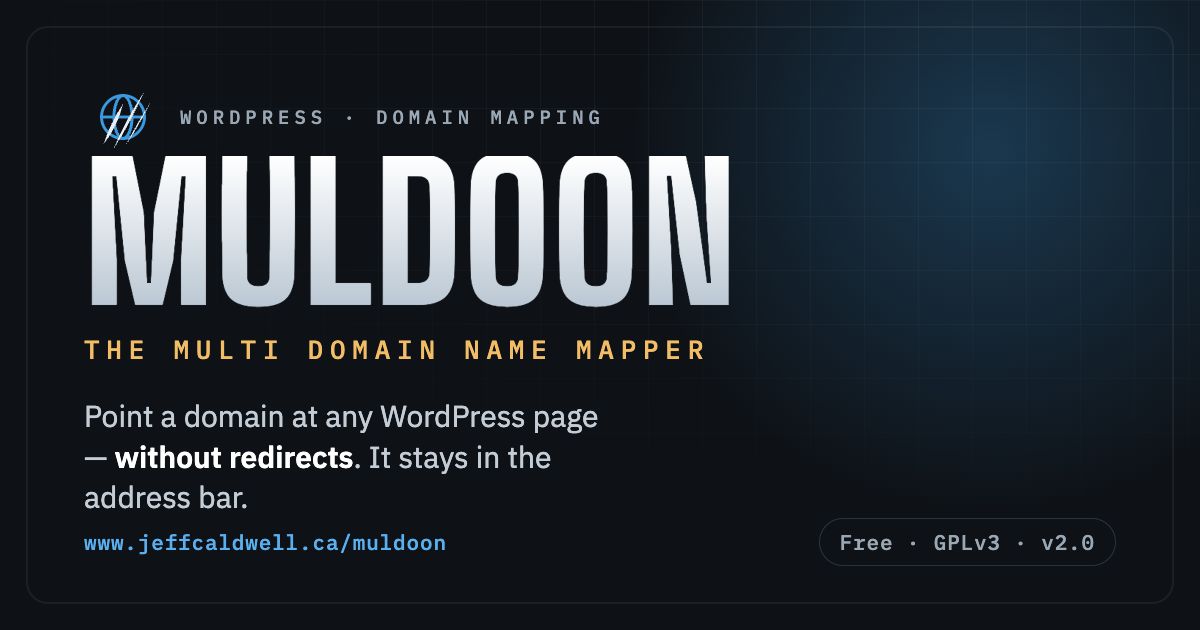
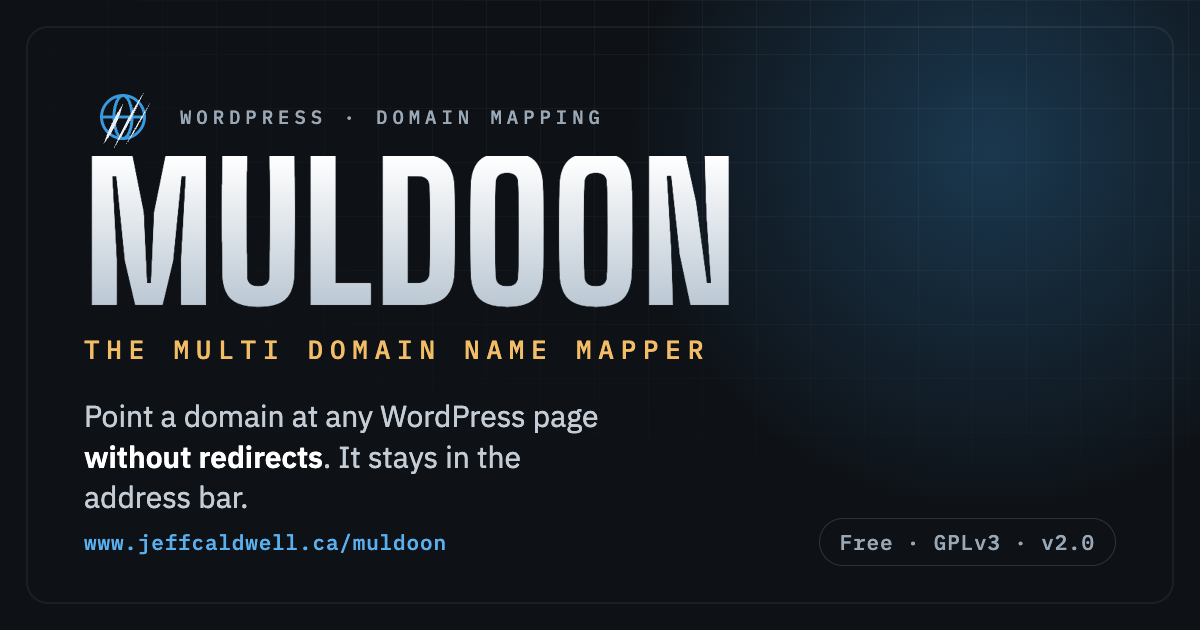
Remove em dashes from site copy; refresh OG image and admin screenshot

Changed region(s): [[0.0617, 0.6937, 0.4625, 0.754]]

diff --git a/index.html b/index.html
@@ -5,8 +5,8 @@
   <meta name="viewport" content="width=device-width, initial-scale=1.0">
 
   <!-- Primary SEO -->
-  <title>Muldoon — WordPress Domain Mapping Plugin, No Redirects</title>
-  <meta name="description" content="Muldoon is a WordPress plugin that maps extra domains and subdomains to any page, post, or archive — without redirects. The mapped domain always stays in the visitor's address bar.">
+  <title>Muldoon: WordPress Domain Mapping Plugin, No Redirects</title>
+  <meta name="description" content="Muldoon is a WordPress plugin that maps extra domains and subdomains to any page, post, or archive without redirects. The mapped domain always stays in the visitor's address bar.">
   <meta name="keywords" content="WordPress domain mapping, map domain to WordPress page, domain alias WordPress, WordPress subdomain mapping, no redirect domain mapping, parked domain WordPress, WordPress multiple domains plugin">
   <meta name="author" content="Jeff Caldwell">
   <meta name="robots" content="index, follow, max-image-preview:large">
@@ -16,20 +16,20 @@
   <!-- Open Graph -->
   <meta property="og:type" content="website">
   <meta property="og:site_name" content="Muldoon">
-  <meta property="og:title" content="Muldoon — WordPress Domain Mapping Plugin, No Redirects">
-  <meta property="og:description" content="Point any extra domain or subdomain at a WordPress page, post, or archive — without redirects. The mapped domain always stays in the visitor's address bar.">
+  <meta property="og:title" content="Muldoon: WordPress Domain Mapping Plugin, No Redirects">
+  <meta property="og:description" content="Point any extra domain or subdomain at a WordPress page, post, or archive without redirects. The mapped domain always stays in the visitor's address bar.">
   <meta property="og:url" content="https://www.jeffcaldwell.ca/muldoon/">
   <meta property="og:image" content="https://www.jeffcaldwell.ca/muldoon/og-image.png">
   <meta property="og:image:width" content="1200">
   <meta property="og:image:height" content="630">
-  <meta property="og:image:alt" content="Muldoon — The Multi Domain Name Mapper for WordPress">
+  <meta property="og:image:alt" content="Muldoon: The Multi Domain Name Mapper for WordPress">
 
   <!-- Twitter -->
   <meta name="twitter:card" content="summary_large_image">
-  <meta name="twitter:title" content="Muldoon — WordPress Domain Mapping Plugin, No Redirects">
-  <meta name="twitter:description" content="Map extra domains and subdomains to any WordPress page, post, or archive — without redirects. The mapped domain stays in the address bar.">
+  <meta name="twitter:title" content="Muldoon: WordPress Domain Mapping Plugin, No Redirects">
+  <meta name="twitter:description" content="Map extra domains and subdomains to any WordPress page, post, or archive without redirects. The mapped domain stays in the address bar.">
   <meta name="twitter:image" content="https://www.jeffcaldwell.ca/muldoon/og-image.png">
-  <meta name="twitter:image:alt" content="Muldoon — The Multi Domain Name Mapper for WordPress">
+  <meta name="twitter:image:alt" content="Muldoon: The Multi Domain Name Mapper for WordPress">
 
   <!-- Icons -->
   <link rel="icon" href="favicon.svg" type="image/svg+xml">
@@ -73,7 +73,7 @@
       {
         "@type": "Question",
         "name": "Does Muldoon use redirects or iframes?",
-        "acceptedAnswer": { "@type": "Answer", "text": "No. Muldoon maps the domain transparently. Visitors see the mapped domain in the address bar while WordPress serves content from the underlying path — no redirect and no iframe." }
+        "acceptedAnswer": { "@type": "Answer", "text": "No. Muldoon maps the domain transparently. Visitors see the mapped domain in the address bar while WordPress serves content from the underlying path, with no redirect and no iframe." }
       },
       {
         "@type": "Question",
@@ -138,7 +138,7 @@
           </h1>
           <p class="lede">
             Point any extra domain or subdomain at a WordPress page, post, or archive
-            — <strong>without redirects</strong>. The mapped domain always stays in the
+            <strong>without redirects</strong>. The mapped domain always stays in the
             visitor's address bar.
           </p>
           <div class="cta-row">
@@ -187,7 +187,7 @@
         <p class="section-lede">
           Map a domain to a WordPress path and Muldoon handles the rest transparently.
           Visitors see the mapped domain; WordPress serves content from the underlying
-          path; every internal link — navigation, pagination, archives — is rewritten to
+          path; every internal link (navigation, pagination, archives) is rewritten to
           the mapped domain.
         </p>
 
@@ -209,7 +209,7 @@
             <code class="to">www.mainsite.com/product-a/blog/hello/</code>
           </div>
         </div>
-        <p class="fineprint">Handles <code>http</code>/<code>https</code> and <code>www</code>/non-<code>www</code> automatically — one entry per domain is enough.</p>
+        <p class="fineprint">Handles <code>http</code>/<code>https</code> and <code>www</code>/non-<code>www</code> automatically, so one entry per domain is enough.</p>
       </div>
     </section>
 
@@ -223,7 +223,7 @@
           <article class="card">
             <h3>Core mapping</h3>
             <ul class="ticks">
-              <li>Domain-stays-in-bar — no redirect, no iframe</li>
+              <li>Domain-stays-in-bar, no redirect, no iframe</li>
               <li>Rewrites pages, posts, CPTs, archives, categories, feeds &amp; nav menus</li>
               <li>Multiple mappings; all descendant URIs map automatically</li>
               <li>Core, Yoast, &amp; RankMath XML sitemap compatibility</li>
@@ -246,7 +246,7 @@
             <h3>SEO</h3>
             <ul class="ticks">
               <li>Single canonical tag on the mapped domain</li>
-              <li>Yoast &amp; RankMath canonical rewriting — no duplicates</li>
+              <li>Yoast &amp; RankMath canonical rewriting, no duplicates</li>
               <li><code>og:url</code> replacement for Yoast &amp; RankMath</li>
               <li>Mapped-domain URLs in core, Yoast &amp; RankMath sitemaps</li>
               <li>REST API domain replacement</li>
@@ -260,7 +260,7 @@
               <li>Import / export mappings as JSON</li>
               <li>Drag-to-reorder mapping rows</li>
               <li>Auto cache-flush: WP Super Cache, W3TC, WP Rocket, LiteSpeed, WP Engine</li>
-              <li>Developer hooks — <code>mdmap_appa_</code> / <code>mdmap_appf_</code></li>
+              <li>Developer hooks: <code>mdmap_appa_</code> / <code>mdmap_appf_</code></li>
             </ul>
           </article>
         </div>
@@ -271,7 +271,7 @@
     <section class="band" id="screens">
       <div class="wrap">
         <p class="kicker">In the admin</p>
-        <h2>A real WordPress admin — not a mockup</h2>
+        <h2>A real WordPress admin, not a mockup</h2>
         <p class="section-lede">Manage everything from <strong>Tools&nbsp;→&nbsp;Muldoon</strong>: domains on the left, paths on the right, with per-mapping SEO and branding options a click away.</p>
         <figure class="shot">
           <div class="shot-bar">
@@ -331,7 +331,7 @@
 
         <details>
           <summary>Does Muldoon use redirects or iframes?</summary>
-          <p>No. Muldoon maps the domain transparently. Visitors see the mapped domain in the address bar while WordPress serves content from the underlying path — no redirect and no iframe.</p>
+          <p>No. Muldoon maps the domain transparently. Visitors see the mapped domain in the address bar while WordPress serves content from the underlying path, with no redirect and no iframe.</p>
         </details>
         <details>
           <summary>What do I need to map a domain to WordPress?</summary>
@@ -347,7 +347,7 @@
         </details>
         <details>
           <summary>Is it compatible with WooCommerce or Multisite?</summary>
-          <p>WooCommerce is not reliably supported — it uses many non-standard link functions. Multisite is not supported either, since it has built-in domain mapping; Muldoon targets single-site installations.</p>
+          <p>WooCommerce is not reliably supported; it uses many non-standard link functions. Multisite is not supported either, since it has built-in domain mapping; Muldoon targets single-site installations.</p>
         </details>
         <details>
           <summary>Will upgrading from MDMAP keep my mappings?</summary>